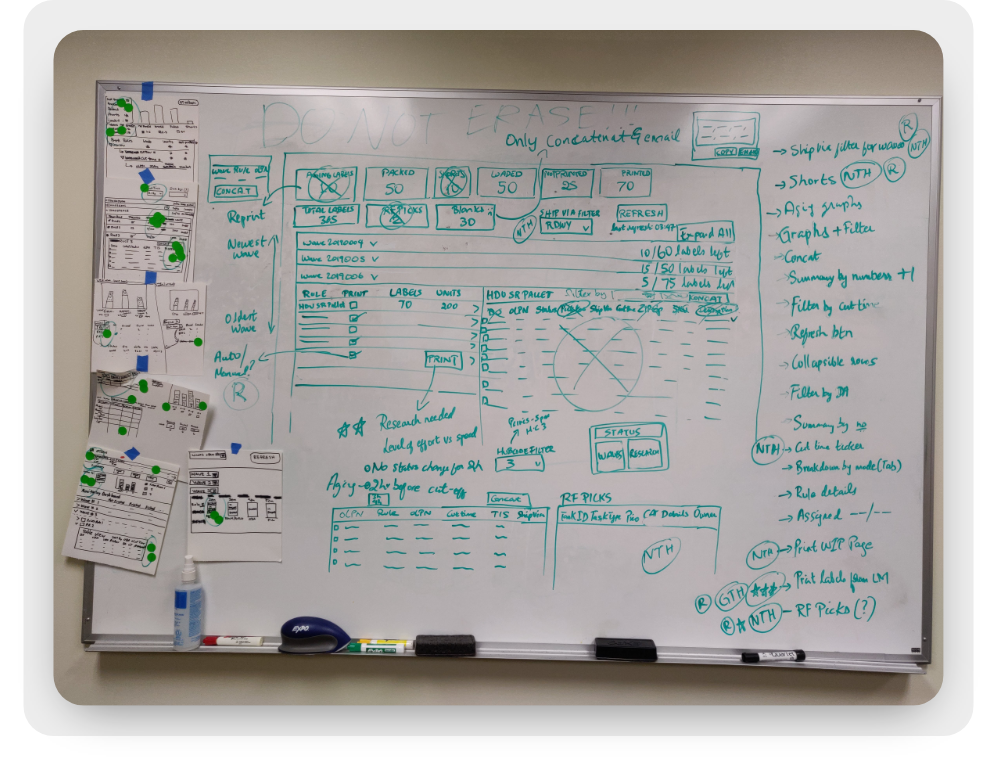
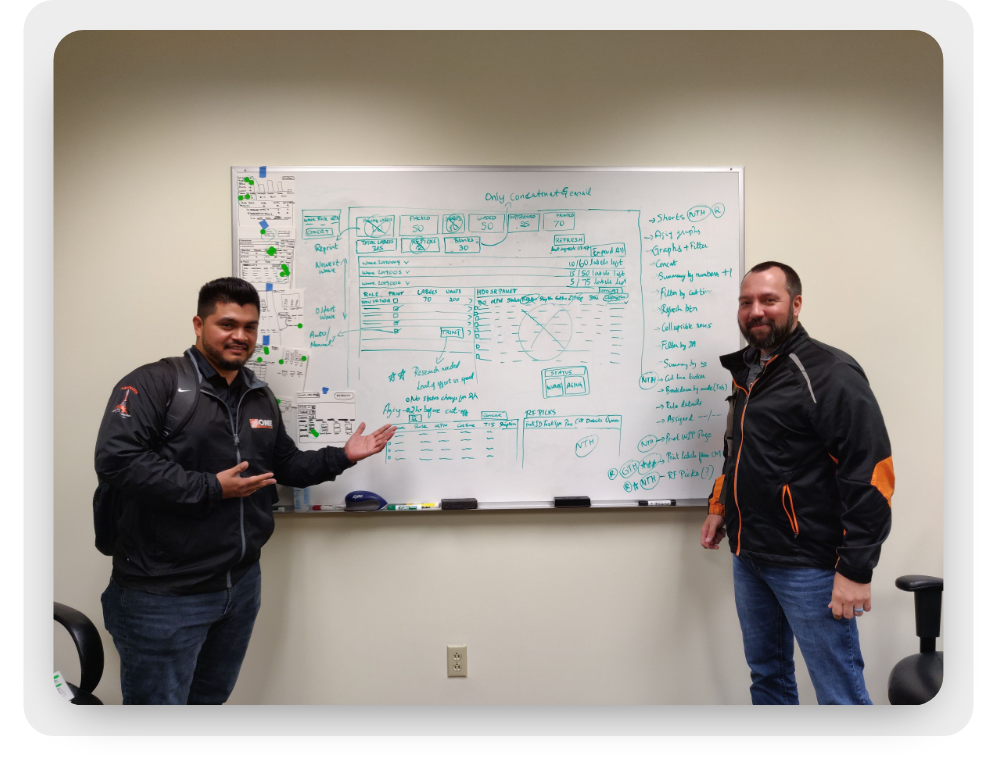
NCV changes

diff --git a/thd_noncon_dashboard.html b/thd_noncon_dashboard.html
@@ -432,11 +432,11 @@
         </div>
 
         <div class="subtitle">
-            <p>Design Studio</p>
+            <p>Whiteboarding</p>
         </div>
 
         <div class="contentsection">
-            <p>I facilitated a design studio with the team to explore ideas to solve for the prioritized goals and user needs. During the process, I tried to keep the conversations focused on the MVP and created a parking lot with a list of
+            <p>I facilitated a whiteboarding exercise with the team to explore ideas to solve for the prioritized goals and user needs. During the process, I tried to keep the conversations focused on the MVP and created a parking lot with a list of
                 Nice-to-Haves.
             </p>
         </div>
@@ -445,12 +445,12 @@
         <!-- IMAGE GROUP START-->
 
         <div class="threeemboth"></div>
-        <div class="centerimg portraitimg">
+        <div class="centerimg">
             <img src="css/img/thd_ncv/Img-Whiteboard.png">
         </div>
         <div class="oneemtop"></div>
         <div class="imgdesc">
-            <p>Defining the user flow for the new unloading process.</p>
+            <p>The supervisors from different buildings were involved in the whiteboarding session.</p>
         </div>
         <div class="threeemboth"></div>
 
@@ -515,8 +515,9 @@
                 users were able to take actions more easily and there was less ambiguity in what they could interact with and what they couldn’t. </p>
         </div>
 
-        <!-- IMAGE GROUP START-->
 
+        <!-- IMAGE GROUP START-->
+        <!--
         <div class="threeemboth"></div>
         <div class="centerimg">
             <img src="css/img/thd_ncv/Img-Landing.png">
@@ -526,11 +527,11 @@
             <p>A cleaner looking landing page that matches the users' mental models more closely.</p>
         </div>
         <div class="threeemboth"></div>
-        <div class="threeemboth"></div>
+        <div class="threeemboth"></div> -->
         <!-- IMAGE GROUP END-->
 
         <!-- IMAGE GROUP START-->
-
+        <!--
         <div class="threeemboth"></div>
         <div class="centerimg">
             <img src="css/img/thd_ncv/Img-Research.png">
@@ -540,12 +541,12 @@
             <p>The research section is moved from the front page. This offers a more focused view of the information users need.</p>
         </div>
         <div class="threeemboth"></div>
-        <div class="threeemboth"></div>
+        <div class="threeemboth"></div> -->
 
         <!-- IMAGE GROUP END-->
 
         <!-- IMAGE GROUP START-->
-
+        <!--
         <div class="threeemboth"></div>
         <div class="centerimg">
             <img src="css/img/thd_ncv/Img-CutTime.png">
@@ -555,12 +556,12 @@
             <p>Showing work by different cut times helps users prioritize the work accordingly. </p>
         </div>
         <div class="threeemboth"></div>
-        <div class="threeemboth"></div>
+        <div class="threeemboth"></div> -->
 
         <!-- IMAGE GROUP END-->
 
         <!-- IMAGE GROUP START-->
-
+        <!--
         <div class="threeemboth"></div>
         <div class="centerimg">
             <img src="css/img/thd_ncv/Img-Blank_Labels.png">
@@ -570,7 +571,7 @@
             <p>Orders with exceptions are grouped together so that suitable action can be taken.</p>
         </div>
         <div class="threeemboth"></div>
-        <div class="threeemboth"></div>
+        <div class="threeemboth"></div> -->
 
         <!-- IMAGE GROUP END-->
 
@@ -583,12 +584,12 @@
                     <source src="css/img/thd_ncv/ncv_copy_Olpn_flow.mp4" type="video/mp4" />
                 </video>
             </div>
-
         </div>
 
         <div class="oneemtop"></div>
+        <div class="oneemtop"></div>
         <div class="imgdesc">
-            <p>Exploring transitions and micro-animations for the interface.</p>
+            <p>The final prototype showing the user journey and the transitions.</p>
         </div>
 
         <div class="threeemboth"></div>
@@ -634,13 +635,13 @@
 
             <div class="insightdiv">
                 <div class="insight_imgdiv">
-                    <img src="css/img/thd_ncv/2x.svg">
+                    <img src="css/img/thd_ncv/0_training.svg">
                 </div>
                 <div class="insight_title">
-                    <p>Faster task completion</p>
+                    <p>No training needed</p>
                 </div>
                 <div class="insight_content">
-                    <p>Since the app was designed to meet the supervisors' mental-models and behaviors, they were able to finish the tasks almost twice as fast.</p>
+                    <p>The supervisors were able to get started using the app with no to very little software training necessary.</p>
                 </div>
             </div>
 
@@ -668,6 +669,10 @@
                 <div class="insight_content">
                     <p>Thanks to some great collaboration from everyone involved, the app went from research to live in 10 weeks, well ahead of the schedule.</p>
                 </div>
+            </div>
+
+            <div class="creditcontent">
+                <p>Icon Credits: Musmellow </p>
             </div>
 
 

diff --git a/thd_picking_priority.html b/thd_picking_priority.html
@@ -340,11 +340,12 @@
         </div>
 
         <div class="subtitle">
-            <p>Design Studio</p>
+            <p>Whiteboarding</p>
         </div>
 
         <div class="contentsection">
-            <p>Once the team had a good understanding of the problem and the user needs, I facilitated a design studio to explore solutions that would help provide the necessary information to the floor leaders that was necessary to make decisions.
+            <p>Once the team had a good understanding of the problem and the user needs, I facilitated a whiteboarding session to explore solutions that would help provide the necessary information to the floor leaders that was necessary to make
+                decisions.
                 By involving the stakeholders and users in the sketching process helped us validate and narrow down quickly. We
                 encouraged
                 everyone to sketch their idea of presenting the necessary information and used dot voting to narrow down to the best solution. Once we had a sufficient set of ideas, we dot voted on them to prioritize and refine the ideas.</p>
@@ -357,7 +358,7 @@
         </div>
         <div class="oneemtop"></div>
         <div class="imgdesc">
-            <p>A broad set of ideas were generated during the design studio.</p>
+            <p>A broad set of ideas were generated during the whiteboarding session.</p>
         </div>
         <div class="threeemboth"></div>
         <!-- IMAGE GROUP END-->

diff --git a/thd_simplesort.html b/thd_simplesort.html
@@ -1,3 +1,4 @@
+Whiteboarding Exercise
 <!doctype html>
 <html class="no-js" lang="en" dir="ltr">
 
@@ -337,12 +338,12 @@
         </div>
 
         <div class="subtitle">
-            <p>Design Studio</p>
+            <p>Whiteboarding</p>
         </div>
 
 
         <div class="contentsection">
-            <p>With a good understanding of the problem and the users' needs, we started thinking about ways to address those needs by whiteboarding the user-journey and flow within the app. The design studio involved the developers, PM,
+            <p>With a good understanding of the problem and the users' needs, we started thinking about ways to address those needs by whiteboarding the user-journey and flow within the app. The session involved the developers, PM,
                 business owner while I was the facilitator.
             </p>
         </div>
